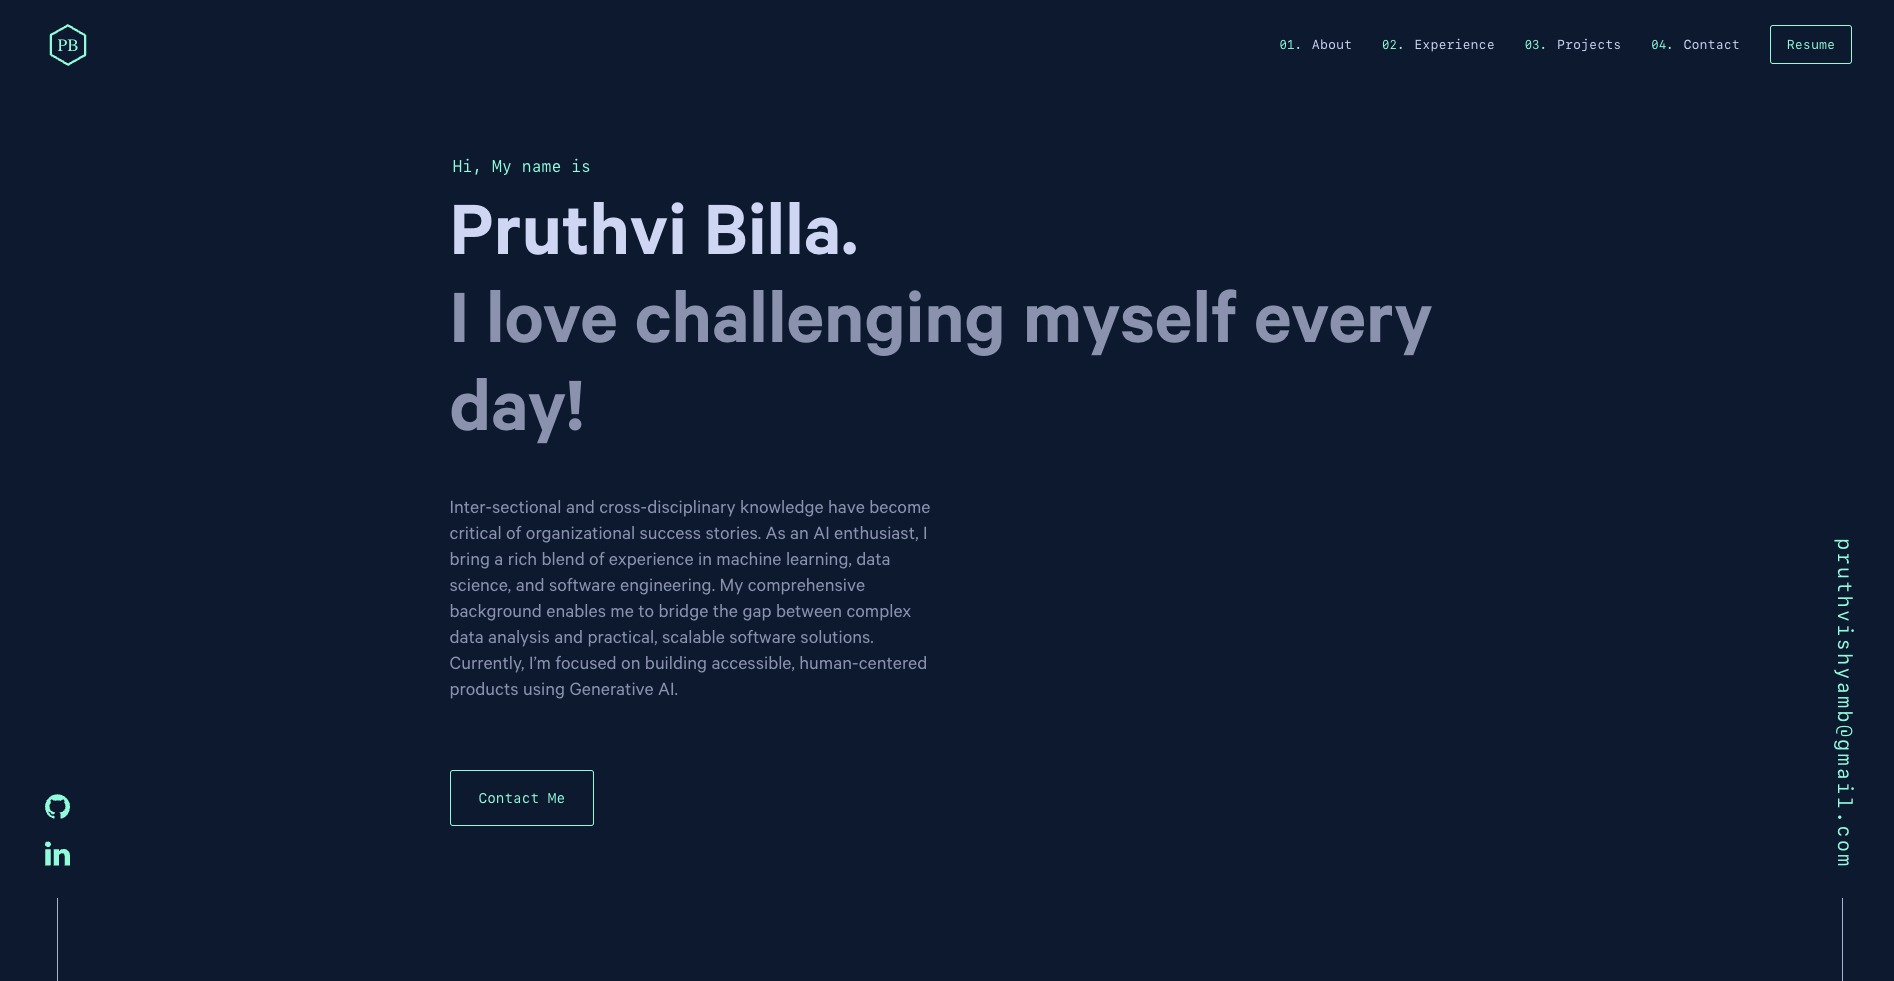
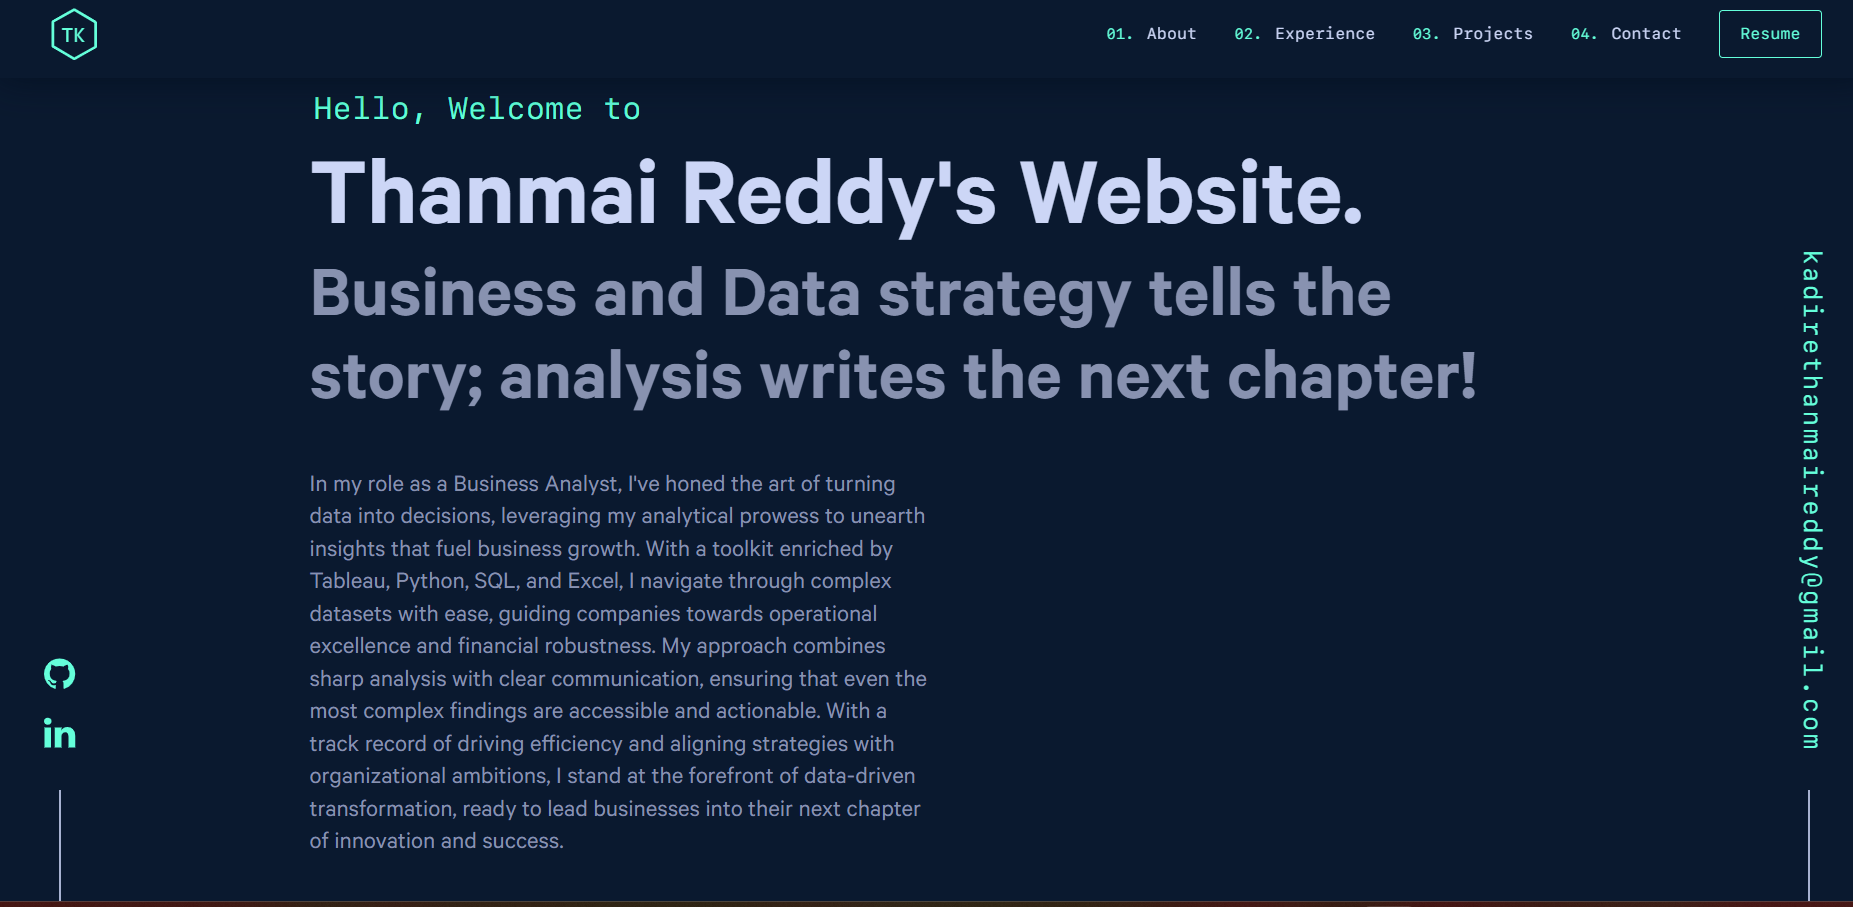
changes

diff --git a/src/components/footer.js b/src/components/footer.js
@@ -89,7 +89,7 @@ const Footer = () => {
             rel="nofollow noopener noreferrer">
           <div>
             Designed &amp; Built by Brittany Chiang<br></br><br></br>
-            Revised by Pruthvi Billa
+            Revised by Thanmai Reddy Kadire
           </div>
 
 
